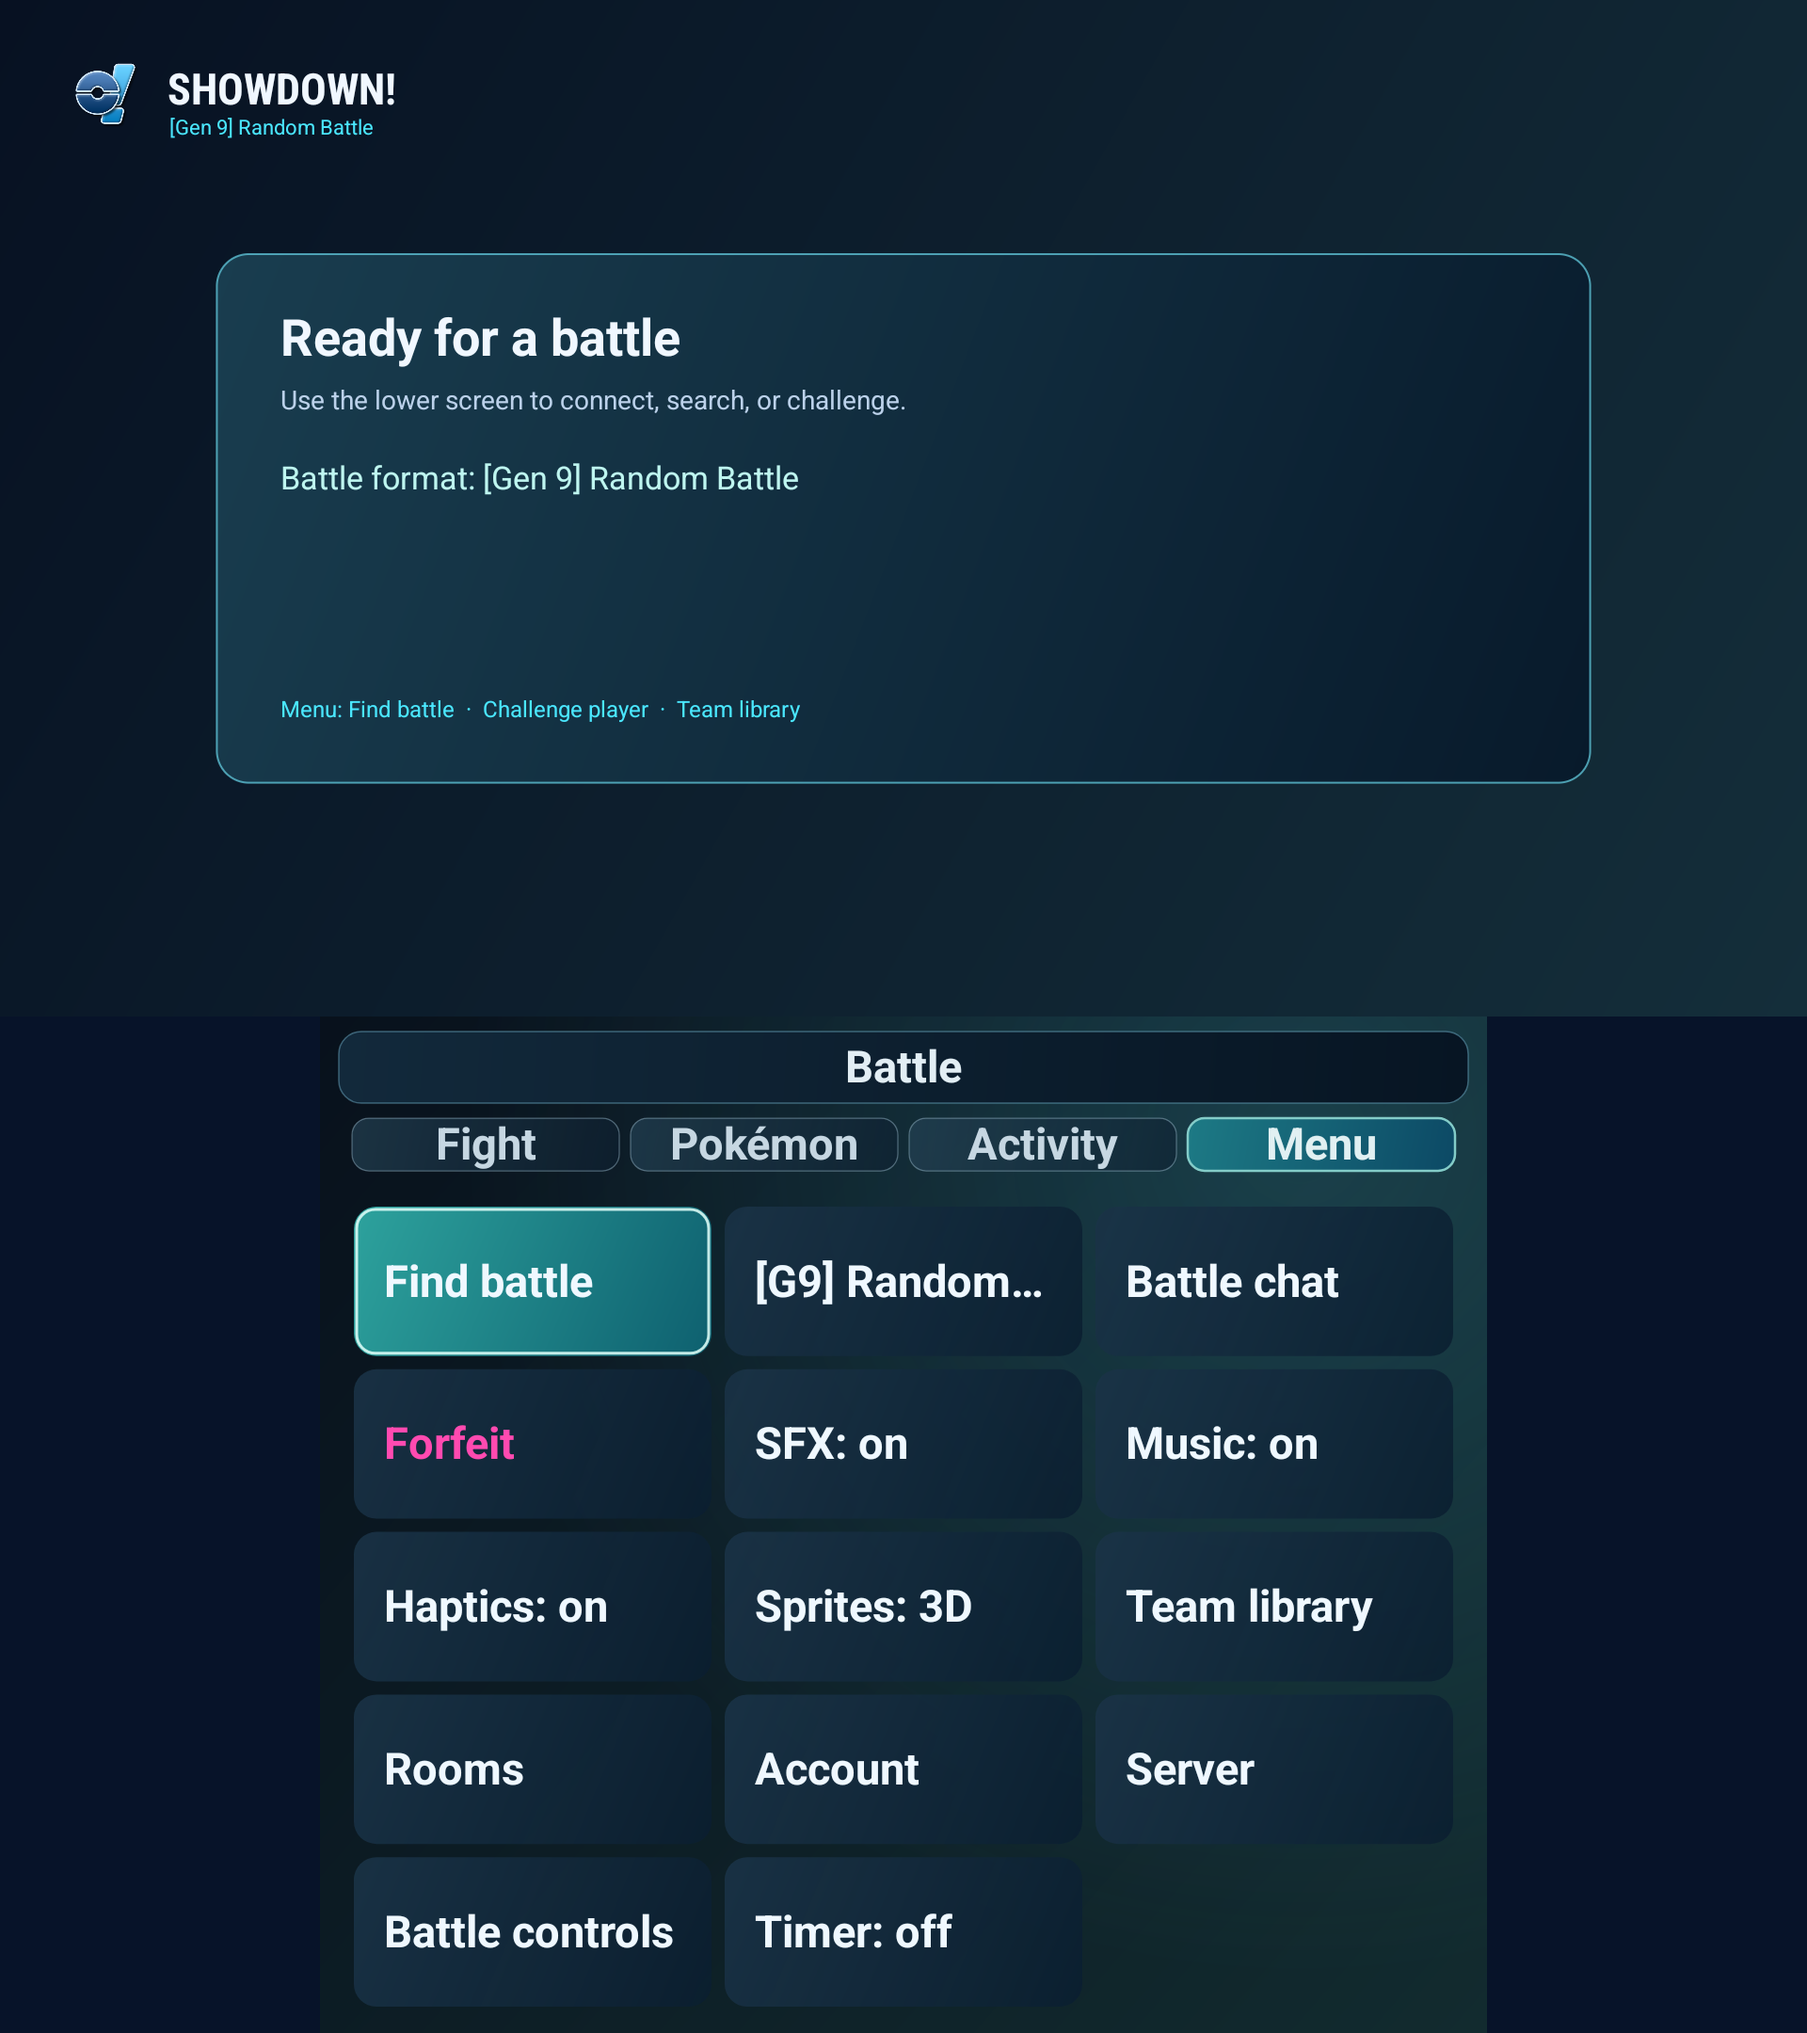
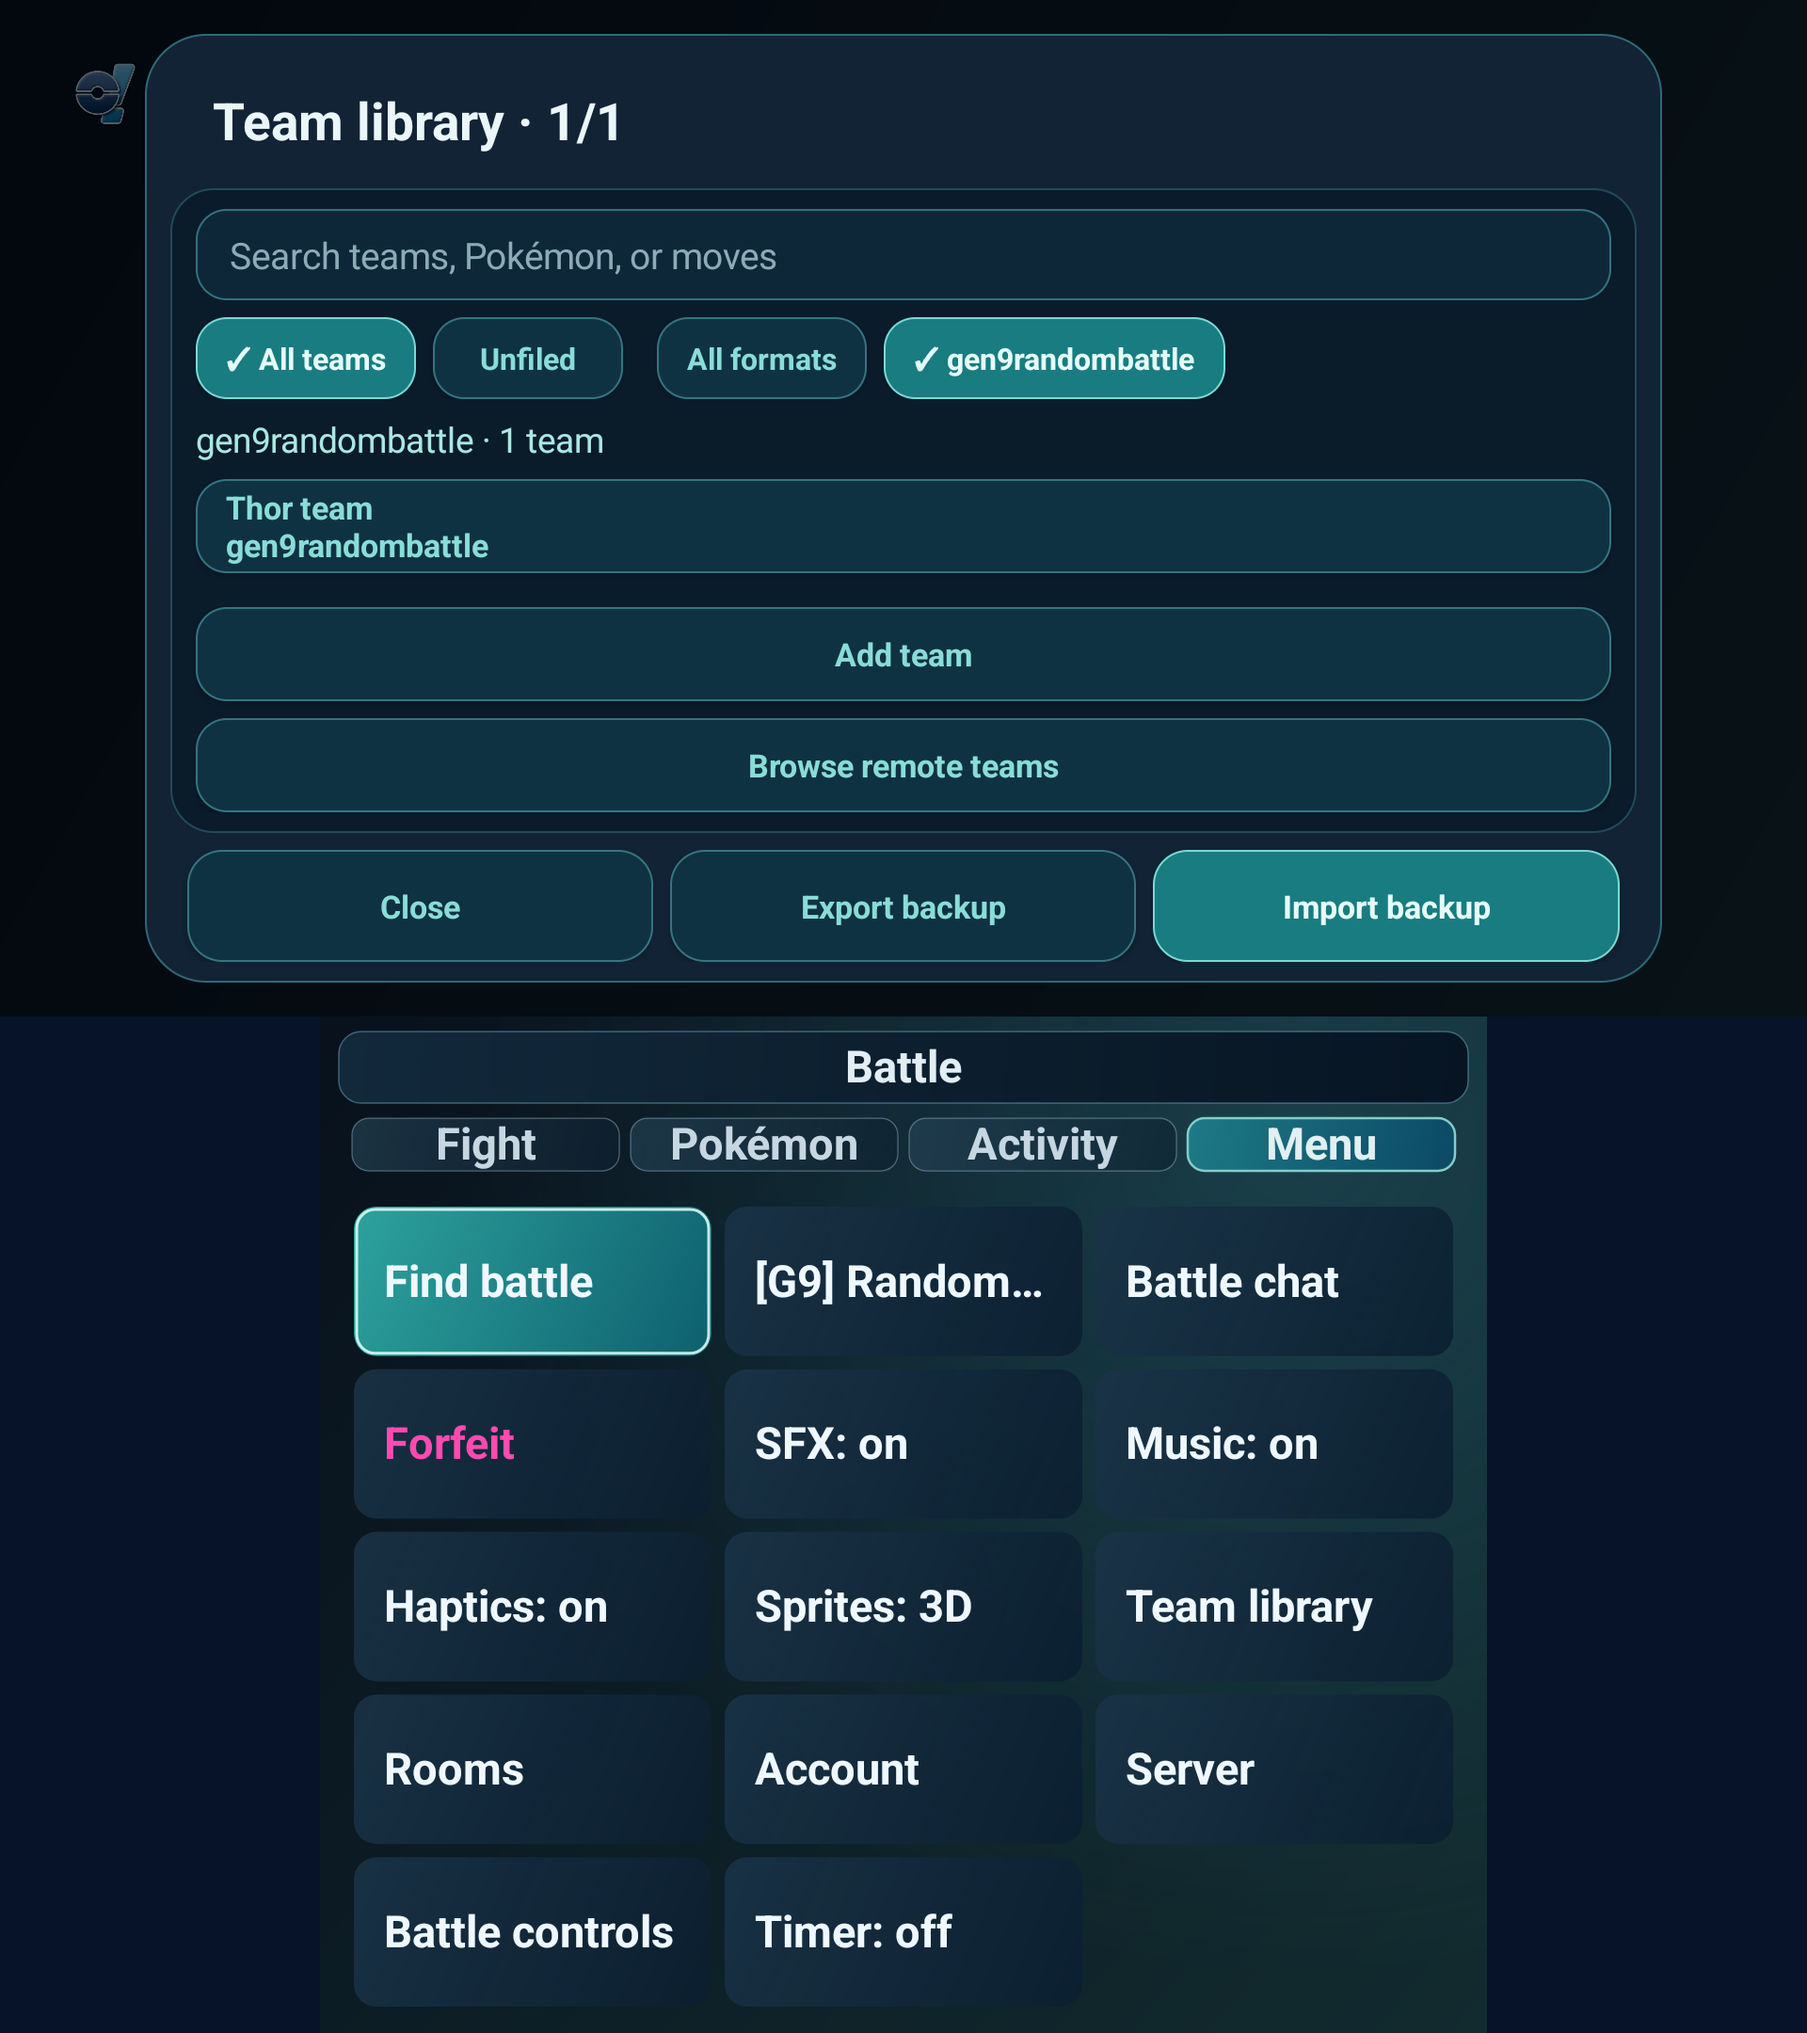
feat: add format filters to team library

diff --git a/app/src/main/kotlin/dev/adrian/showdown/MainActivity.kt b/app/src/main/kotlin/dev/adrian/showdown/MainActivity.kt
@@ -3504,6 +3504,9 @@ class MainActivity : Activity() {
         val folderBar = LinearLayout(this).apply {
             orientation = LinearLayout.HORIZONTAL
         }
+        val formatBar = LinearLayout(this).apply {
+            orientation = LinearLayout.HORIZONTAL
+        }
         val resultSummary = TextView(this).apply {
             setTextSize(16f)
             setTextColor(0xffa9e8e2.toInt())
@@ -3513,6 +3516,7 @@ class MainActivity : Activity() {
             orientation = LinearLayout.VERTICAL
         }
         val activeFolder = arrayOfNulls<String>(1)
+        val activeFormat = arrayOfNulls<String>(1)
         var teamDialog: ShowdownDialog? = null
         fun styleTeamButton(button: Button, compact: Boolean = false, selected: Boolean = false) = button.apply {
             isAllCaps = false
@@ -3531,13 +3535,24 @@ class MainActivity : Activity() {
         fun renderResults() {
             val visibleTeams = ShowdownTeamLibraryQuery.filter(
                 teams,
-                ShowdownTeamLibraryFilter(search.text.toString(), activeFolder[0])
+                ShowdownTeamLibraryFilter(
+                    query = search.text.toString(),
+                    folder = activeFolder[0],
+                    format = activeFormat[0]
+                )
             )
-            resultSummary.text = if (activeFolder[0] == null) {
-                "${visibleTeams.size} of ${teams.size} teams"
-            } else {
-                val folderName = activeFolder[0].takeUnless { it.isNullOrBlank() } ?: "Unfiled"
-                "$folderName · ${visibleTeams.size} team${if (visibleTeams.size == 1) "" else "s"}"
+            val countLabel = "${visibleTeams.size} team${if (visibleTeams.size == 1) "" else "s"}"
+            resultSummary.text = when {
+                activeFolder[0] != null && activeFormat[0] != null -> {
+                    val folderName = activeFolder[0].takeUnless { it.isNullOrBlank() } ?: "Unfiled"
+                    "${activeFormat[0]} · $folderName · $countLabel"
+                }
+                activeFolder[0] != null -> {
+                    val folderName = activeFolder[0].takeUnless { it.isNullOrBlank() } ?: "Unfiled"
+                    "$folderName · $countLabel"
+                }
+                activeFormat[0] != null -> "${activeFormat[0]} · $countLabel"
+                else -> "${visibleTeams.size} of ${teams.size} teams"
             }
             resultList.removeAllViews()
             if (visibleTeams.isEmpty()) {
@@ -3573,7 +3588,31 @@ class MainActivity : Activity() {
             }
             teamDialog?.setTitle("Team library · ${visibleTeams.size}/${teams.size}")
         }
-        fun renderFolders() {
+        var renderFolders: () -> Unit = {}
+        fun renderFormats() {
+            formatBar.removeAllViews()
+            val options = buildList<Pair<String?, String>> {
+                add(null to "All formats")
+                ShowdownTeamLibraryQuery.formats(teams).forEach { add(it to it) }
+            }
+            options.forEach { (format, label) ->
+                val selected = activeFormat[0].equals(format, true)
+                formatBar.addView(styleTeamButton(Button(this), compact = true, selected = selected).apply {
+                    text = if (selected) "✓ $label" else label
+                    isSelected = selected
+                    setOnClickListener {
+                        activeFormat[0] = format
+                        activeFolder[0] = null
+                        renderFormats()
+                        renderFolders()
+                        renderResults()
+                    }
+                }, LinearLayout.LayoutParams(-2, -2).apply {
+                    setMargins(0, 0, (8f * density).toInt(), 0)
+                })
+            }
+        }
+        renderFolders = {
             folderBar.removeAllViews()
             val options = buildList<Pair<String?, String>> {
                 add(null to "All teams")
@@ -3587,6 +3626,8 @@ class MainActivity : Activity() {
                     isSelected = selected
                     setOnClickListener {
                         activeFolder[0] = folder
+                        activeFormat[0] = null
+                        renderFormats()
                         renderFolders()
                         renderResults()
                     }
@@ -3604,7 +3645,10 @@ class MainActivity : Activity() {
             text = "Add team"
             setOnClickListener {
                 teamDialog?.dismiss()
-                showTeamEditor(initialFolder = activeFolder[0].orEmpty())
+                showTeamEditor(
+                    initialFolder = activeFolder[0].orEmpty(),
+                    initialFormat = activeFormat[0]
+                )
             }
         }
         val remoteButton = styleTeamButton(Button(this)).apply {
@@ -3614,12 +3658,19 @@ class MainActivity : Activity() {
                 showTeamRemoteLibrary()
             }
         }
+        val filterBar = LinearLayout(this).apply {
+            orientation = LinearLayout.HORIZONTAL
+            addView(folderBar, LinearLayout.LayoutParams(-2, -2))
+            addView(formatBar, LinearLayout.LayoutParams(-2, -2).apply {
+                leftMargin = (8f * density).toInt()
+            })
+        }
         val root = LinearLayout(this).apply {
             orientation = LinearLayout.VERTICAL
             addView(search, LinearLayout.LayoutParams(-1, -2))
             addView(HorizontalScrollView(this@MainActivity).apply {
                 overScrollMode = View.OVER_SCROLL_NEVER
-                addView(folderBar, LinearLayout.LayoutParams(-2, -2))
+                addView(filterBar, LinearLayout.LayoutParams(-2, -2))
             }, LinearLayout.LayoutParams(-1, -2).apply {
                 topMargin = (8f * density).toInt()
             })
@@ -3650,6 +3701,7 @@ class MainActivity : Activity() {
         teamDialog?.setOnShowListener {
             styleTeamButton(addButton)
             styleTeamButton(remoteButton)
+            renderFormats()
             renderFolders()
             renderResults()
         }
@@ -3887,7 +3939,7 @@ class MainActivity : Activity() {
     private fun String.isLikelyTeamBackup() = ShowdownTeamUrlImporter.normalize(this) != null || contains("===") || contains("]") && contains("|") ||
         contains("\n-") || contains("Ability:", true) || contains(" @ ")
 
-    private fun showTeamEditor(existing: ShowdownTeam? = null, initialFolder: String = "") {
+    private fun showTeamEditor(existing: ShowdownTeam? = null, initialFolder: String = "", initialFormat: String? = null) {
         val localId = existing?.id ?: java.util.UUID.randomUUID().toString()
         val name = EditText(this).apply {
             hint = "Team name"
@@ -3897,7 +3949,7 @@ class MainActivity : Activity() {
         val format = EditText(this).apply {
             hint = "Format ID, for example gen9ou"
             setSingleLine(true)
-            setText(existing?.format ?: session.matchFormat.id)
+            setText(existing?.format ?: initialFormat ?: session.matchFormat.id)
         }
         val formatPicker = Button(this).apply {
             text = "Choose format from Showdown"

diff --git a/app/src/main/kotlin/dev/adrian/showdown/ShowdownTeamLibraryQuery.kt b/app/src/main/kotlin/dev/adrian/showdown/ShowdownTeamLibraryQuery.kt
@@ -2,12 +2,19 @@ package dev.adrian.showdown
 
 data class ShowdownTeamLibraryFilter(
     val query: String = "",
-    val folder: String? = null
+    val folder: String? = null,
+    val format: String? = null
 )
 
 object ShowdownTeamLibraryQuery {
     fun folders(teams: List<ShowdownTeam>): List<String> = teams
         .map { it.folder.trim() }
+        .filter(String::isNotBlank)
+        .distinctBy(String::lowercase)
+        .sortedWith(String.CASE_INSENSITIVE_ORDER)
+
+    fun formats(teams: List<ShowdownTeam>): List<String> = teams
+        .map { it.format.trim() }
         .filter(String::isNotBlank)
         .distinctBy(String::lowercase)
         .sortedWith(String.CASE_INSENSITIVE_ORDER)
@@ -20,6 +27,7 @@ object ShowdownTeamLibraryQuery {
             .map(String::lowercase)
         return teams.filter { team ->
             val folderMatches = filter.folder == null || team.folder.equals(filter.folder, true)
+            val formatMatches = filter.format == null || team.format.equals(filter.format, true)
             val searchText = buildString {
                 append(team.name)
                 append(' ')
@@ -29,7 +37,7 @@ object ShowdownTeamLibraryQuery {
                 append(' ')
                 append(team.packed)
             }.lowercase()
-            folderMatches && terms.all(searchText::contains)
+            folderMatches && formatMatches && terms.all(searchText::contains)
         }
     }
 }

diff --git a/app/src/test/kotlin/dev/adrian/showdown/ShowdownTeamLibraryQueryTest.kt b/app/src/test/kotlin/dev/adrian/showdown/ShowdownTeamLibraryQueryTest.kt
@@ -16,6 +16,11 @@ class ShowdownTeamLibraryQueryTest {
     }
 
     @Test
+    fun listsDistinctFormatsForTeamLibraryNavigation() {
+        assertEquals(listOf("gen8ou", "gen9ou"), ShowdownTeamLibraryQuery.formats(teams))
+    }
+
+    @Test
     fun filtersByFolderAndCommaSeparatedPackedTerms() {
         assertEquals(
             listOf("Rain"),
@@ -24,6 +29,21 @@ class ShowdownTeamLibraryQueryTest {
         assertEquals(
             listOf("Balance"),
             ShowdownTeamLibraryQuery.filter(teams, ShowdownTeamLibraryFilter(query = "gen9ou, makeitrain")).map { it.name }
+        )
+    }
+
+    @Test
+    fun filtersByFormatWithoutChangingFolderSearch() {
+        assertEquals(
+            listOf("Rain", "Balance"),
+            ShowdownTeamLibraryQuery.filter(teams, ShowdownTeamLibraryFilter(format = "gen9ou")).map { it.name }
+        )
+        assertEquals(
+            listOf("Rain"),
+            ShowdownTeamLibraryQuery.filter(
+                teams,
+                ShowdownTeamLibraryFilter(query = "hurricane", format = "gen9ou", folder = "Weather")
+            ).map { it.name }
         )
     }
 }

diff --git a/app/src/main/kotlin/dev/adrian/showdown/ShowdownChangelog.kt b/app/src/main/kotlin/dev/adrian/showdown/ShowdownChangelog.kt
@@ -51,6 +51,7 @@ object ShowdownChangelog {
                 "Team imports now also accept the beta client's bracketed ability and inline nature format.",
                 "Remote team imports now keep every Pokémon from the selected Showdown export.",
                 "Imported team backups now return to a refreshed team library so new teams appear immediately.",
+                "Team library navigation now filters saved teams by Showdown format as well as folder and search.",
                 "Custom dialogs no longer open the keyboard automatically, keeping their actions visible until an input is tapped.",
                 "Iron Valiant now uses verified rear-facing artwork on the player side and never falls back to its front sprite.",
                 "Active battle sprites now resolve from species identifiers while keeping nicknames readable in the battle UI.",
